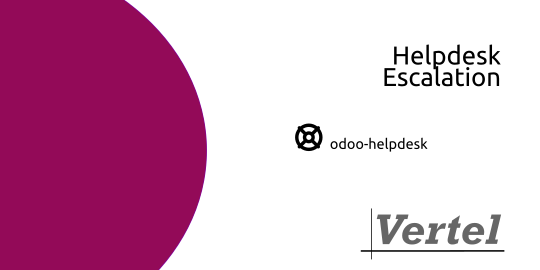
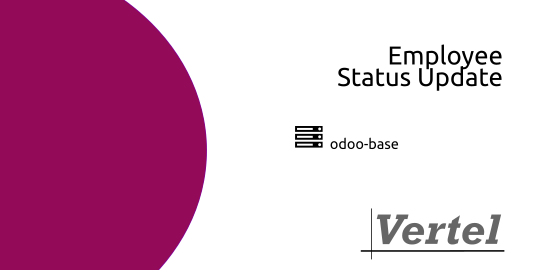
Updated manifest

Changed region(s): [[0.6222, 0.1481, 0.9481, 0.3259], [0.5333, 0.4444, 0.6222, 0.563], [0.6815, 0.5037, 0.8, 0.563]]

diff --git a/partner_check_employees_update/__manifest__.py b/partner_check_employees_update/__manifest__.py
@@ -34,7 +34,9 @@
     'maintainer': 'Vertel AB',
     'repository': 'https://github.com/vertelab/odoo-base',
     'description': """
-      Checks connection between all employees and contacts and updates the employee field.
+      When creating a user and pushing the "Create Employee" button the corresponding contact will set its employee field to True.
+      In Settings / Manage Users you can select users and update their employee status with the Action "Update Employee Status",
+      this will set their corresponding Contact employee field to True provided that the User is an Employee.
     """,
     'depends': ['base','hr','contacts'],
     'data': [
